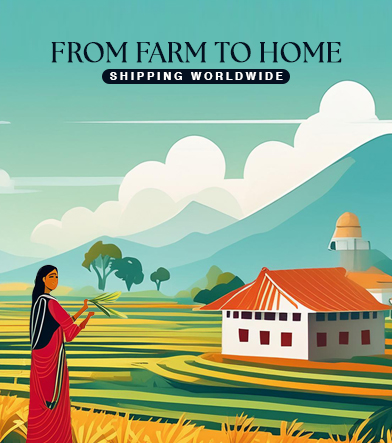
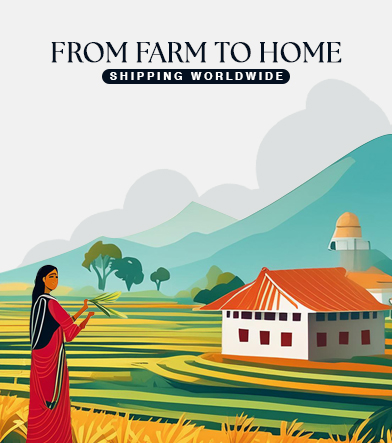
footer image changed and menu style change

diff --git a/index.html b/index.html
@@ -865,11 +865,11 @@
     </div>
         
     </div> 
-    <div class="footer-whole" id="footerwhole">       
+    <div class="footer-whole">       
         <img src="./assets/images/footer_desk.jpg" class="footer-banner" >
         <img src="./assets/images/footer_tab.png" class="footer-banner1" >
         <img src="./assets/images/Footer_mv.jpg" class="footer-banner2" >
-        <div class="footer-main">
+        <div class="footer-main" id="footerwhole">
             <div class="footer-main2">
                 <div class="footer-contact">
                     <!--

diff --git a/password.html b/password.html
@@ -230,7 +230,7 @@
             <img src="./assets/images/footer_desk.jpg" class="footer-banner" >
             <img src="./assets/images/footer_tab.png" class="footer-banner1" >
             <img src="./assets/images/Footer_mv.jpg" class="footer-banner2" >
-            <div class="footer-main">
+            <div class="footer-main" id="footerwhole">
                 <div class="footer-main2">
                     <div class="footer-contact">
                         <!--

diff --git a/cancel.html b/cancel.html
@@ -270,7 +270,7 @@
         <img src="./assets/images/footer_desk.jpg" class="footer-banner" >
         <img src="./assets/images/footer_tab.png" class="footer-banner1" >
         <img src="./assets/images/Footer_mv.jpg" class="footer-banner2" >
-        <div class="footer-main">
+        <div class="footer-main" id="footerwhole">
             <div class="footer-main2">
                 <div class="footer-contact">
                     <!--

diff --git a/categories.html b/categories.html
@@ -778,7 +778,7 @@
         <img src="./assets/images/footer_desk.jpg" class="footer-banner" >
         <img src="./assets/images/footer_tab.png" class="footer-banner1" >
         <img src="./assets/images/Footer_mv.jpg" class="footer-banner2" >
-        <div class="footer-main">
+        <div class="footer-main" id="footerwhole">
             <div class="footer-main2">
                 <div class="footer-contact">
                     <!--

diff --git a/contact.html b/contact.html
@@ -252,7 +252,7 @@
         <img src="./assets/images/footer_desk.jpg" class="footer-banner" >
         <img src="./assets/images/footer_tab.png" class="footer-banner1" >
         <img src="./assets/images/Footer_mv.jpg" class="footer-banner2" >
-        <div class="footer-main">
+        <div class="footer-main" id="footerwhole">
             <div class="footer-main2">
                 <div class="footer-contact">
                     <!--

diff --git a/image.html b/image.html
@@ -289,7 +289,7 @@
         <img src="./assets/images/footer_desk.jpg" class="footer-banner" >
         <img src="./assets/images/footer_tab.png" class="footer-banner1" >
         <img src="./assets/images/Footer_mv.jpg" class="footer-banner2" >
-        <div class="footer-main">
+        <div class="footer-main" id="footerwhole">
             <div class="footer-main2">
                 <div class="footer-contact">
                     <!--

diff --git a/newitem.html b/newitem.html
@@ -255,7 +255,7 @@
         <img src="./assets/images/footer_desk.jpg" class="footer-banner" >
         <img src="./assets/images/footer_tab.png" class="footer-banner1" >
         <img src="./assets/images/Footer_mv.jpg" class="footer-banner2" >
-        <div class="footer-main">
+        <div class="footer-main" id="footerwhole">
             <div class="footer-main2">
                 <div class="footer-contact">
                     <!--

diff --git a/order.html b/order.html
@@ -347,7 +347,7 @@
         <img src="./assets/images/footer_desk.jpg" class="footer-banner" >
         <img src="./assets/images/footer_tab.png" class="footer-banner1" >
         <img src="./assets/images/Footer_mv.jpg" class="footer-banner2" >
-        <div class="footer-main">
+        <div class="footer-main" id="footerwhole">
             <div class="footer-main2">
                 <div class="footer-contact">
                     <!--

diff --git a/ship.html b/ship.html
@@ -261,7 +261,7 @@
         <img src="./assets/images/footer_desk.jpg" class="footer-banner" >
         <img src="./assets/images/footer_tab.png" class="footer-banner1" >
         <img src="./assets/images/Footer_mv.jpg" class="footer-banner2" >
-        <div class="footer-main">
+        <div class="footer-main" id="footerwhole">
             <div class="footer-main2">
                 <div class="footer-contact">
                     <!--

diff --git a/wishlist.html b/wishlist.html
@@ -584,7 +584,7 @@
         <img src="./assets/images/footer_desk.jpg" class="footer-banner" >
         <img src="./assets/images/footer_tab.png" class="footer-banner1" >
         <img src="./assets/images/Footer_mv.jpg" class="footer-banner2" >
-        <div class="footer-main">
+        <div class="footer-main" id="footerwhole">
             <div class="footer-main2">
                 <div class="footer-contact">
                     <!--

diff --git a/service.html b/service.html
@@ -242,7 +242,7 @@
     <!-- Keerthana working area end-->
     <!-- kavya working area start-->   
     <div class="footer-whole">       
-        <div class="footer-main">
+        <div class="footer-main" id="footerwhole">
             <div class="footer-main2">
                 <div class="footer-contact">
                     <!--

diff --git a/tc.html b/tc.html
@@ -275,7 +275,7 @@
     </div>
      <!-- kavya working area start-->   
      <div class="footer-whole">       
-        <div class="footer-main">
+        <div class="footer-main" id="footerwhole">
             <div class="footer-main2">
                 <div class="footer-contact">
                     <!--
